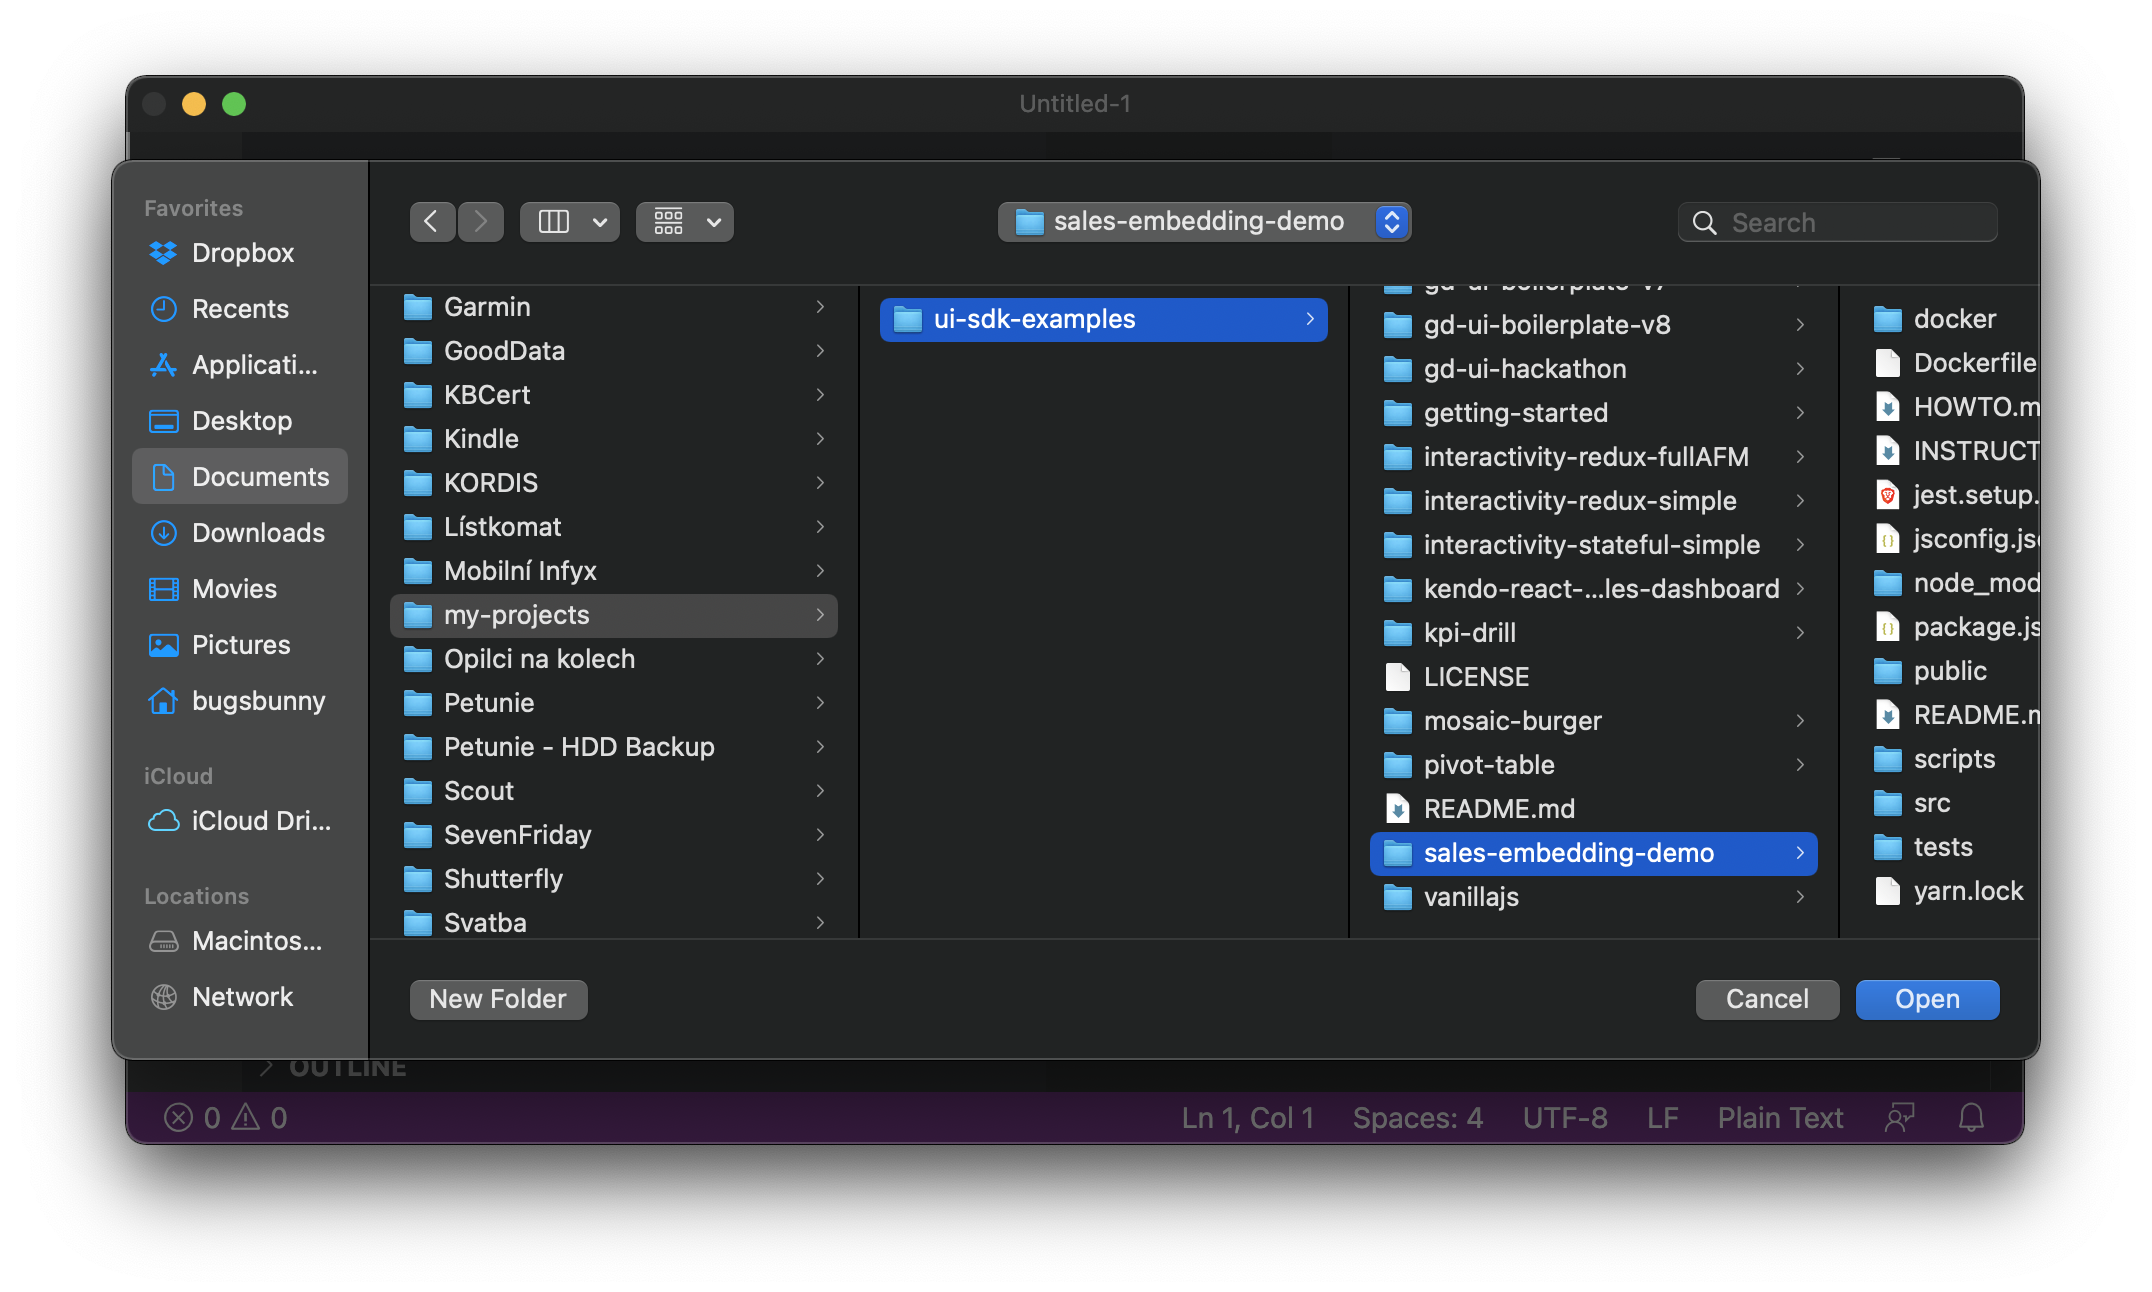
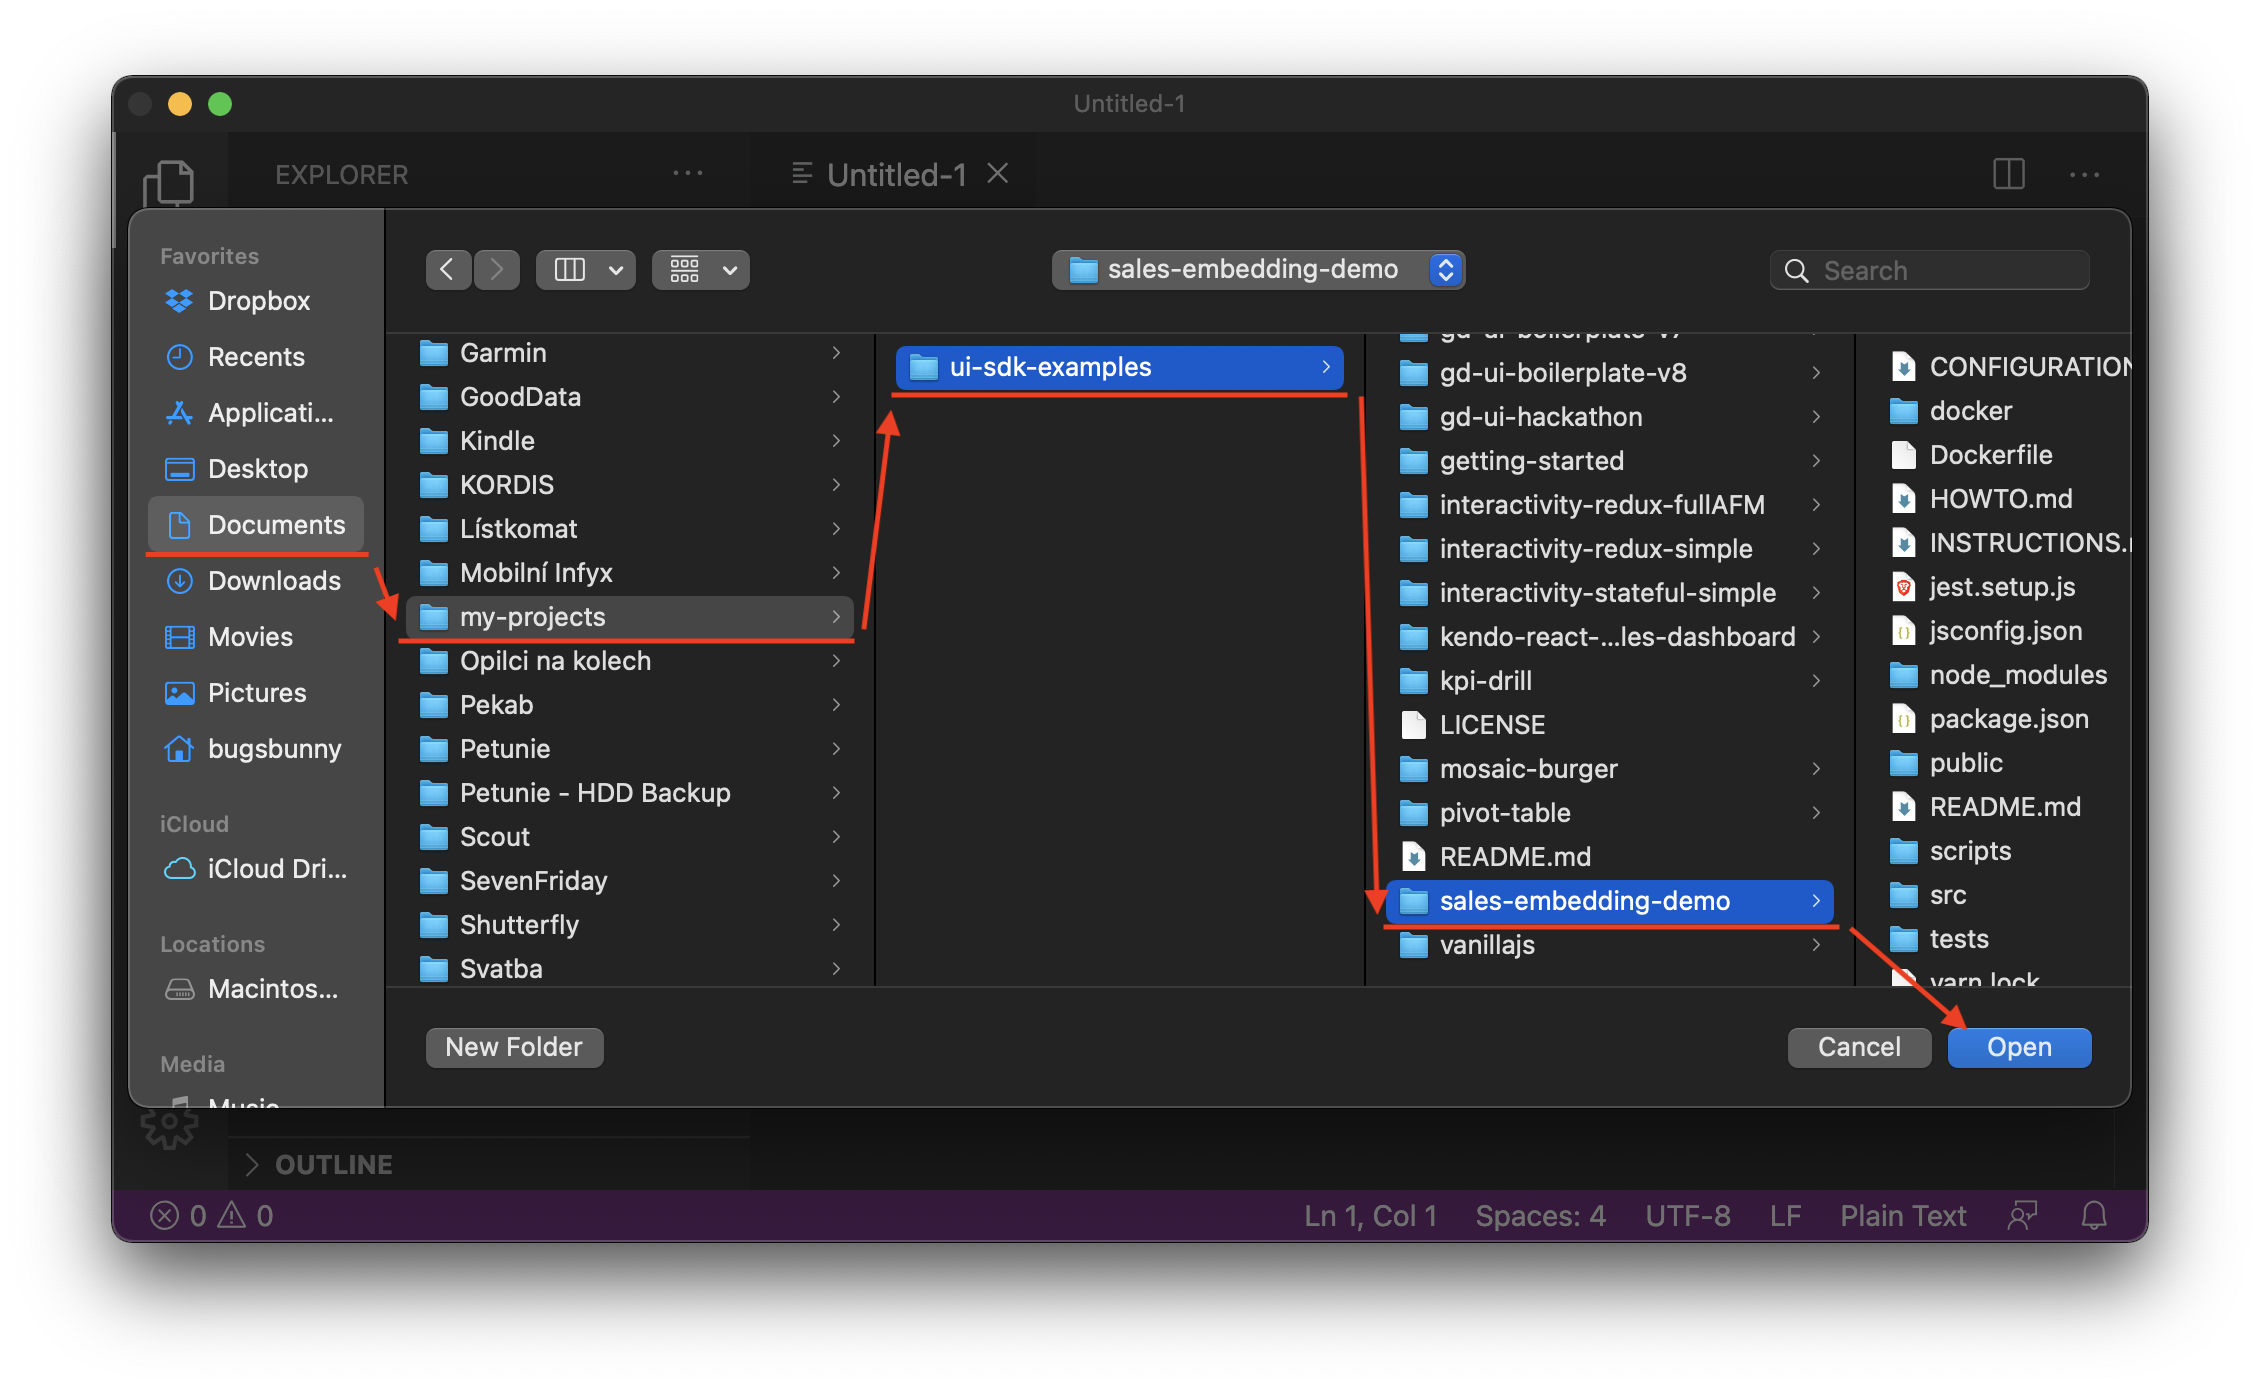
sales-embedding-demo - Feedback from 1st training

diff --git a/sales-embedding-demo/src/constants.js b/sales-embedding-demo/src/constants.js
@@ -6,7 +6,7 @@ export const appName = "sales-embedding-demo";
 // The URL of analytical GoodData backend with workspaces, insights, metrics, attributes, datasets, and users
 // that will be available to the application.
 
-// EXAMPLE: "https://leilani.internal.gooddata.com/"
+// EXAMPLE: "https://leilani.internal.gooddata.com"
 export const backend = "https://e2e-demo28.na.gooddata.com";
 
 // The ID of workspace that is selected by default in the optional workspace picker component (located in the web

diff --git a/sales-embedding-demo/CONFIGURATION.md b/sales-embedding-demo/CONFIGURATION.md
@@ -2,7 +2,7 @@
 
 The purpose of running this app on your localhost is that you can alter it to your needs any time you wish. Some places in the code have been designed to make it as easy as possible.
 
-> Please download [Visual Studio Code](https://code.visualstudio.com/) for easy files editing.
+> Please download and install [Visual Studio Code](https://code.visualstudio.com/) for easy files editing before proceeding further.
 
 (Jump back to [INSTRUCTIONS](INSTRUCTIONS.md) or [README](README.md).)
 
@@ -18,10 +18,11 @@ The purpose of running this app on your localhost is that you can alter it to yo
 
 ## Opening sales-embedding-demo in Visual Studio Code
 
-* Open VSCode (if you don't have VSCode, get it at https://code.visualstudio.com/)
-* At the top of your screen, click View --> Explorer
+* Open VSCode
+  * If you don't have VSCode installed, go to https://code.visualstudio.com/, download it and install it
+* While in VSCode, at the top of your screen, click View --> Explorer
 * Click `Open Folder` and select `sales-embedding-demo` folder to be found in `~/Documents/my-projects/ui-sdk-examples/`
-* You can now open files by clicking Go --> Go to File…
+  * Hint: `~` means "home directory", i.e. `~/Documents/…` is the same as `/Users/<your-username>/Documents/…`
 
 <img src="public/configuration/01-vscode-01.png" width=800>
 <img src="public/configuration/01-vscode-02.png" width=800>
@@ -32,20 +33,32 @@ The purpose of running this app on your localhost is that you can alter it to yo
 
 ### Change the Domain and Workspace
 
-* Kill the app (hit `CTRL + C` in the Terminal)
-* [Open sales-embedding-demo in VSCode](#opening-sales-embedding-demo-in-visual-studio-code)
+* Open sales-embedding-demo in VSCode
+  * If you don't know how, click [here](#opening-sales-embedding-demo-in-visual-studio-code) and then return back here
 * While in VSCode, click Go --> Go to File… and type in `constants` to open `src/constants.js` file
-* Change the value of `backend` to your domain (e.g. https://leilani.na.gooddata.com/)
+* Change the value of `backend` to your domain (e.g. https://leilani.internal.gooddata.com)
+  * This can be whatever domain you want this Sales Embedding Demo to work against
+  * By default it is https://e2e-demo28.na.gooddata.com, but you can change it to anything
+  * You most likely want to change it to https://yourname.internal.gooddata.com
 * Change the value of `workspace` to the workspace you'll be working with
-* Save the changes in `src/constants.js` file
-* Restart the app (run `yarn start` again in the Terminal)
-* You'll now need to `Log out` from the application, and then `Log in` again
+  * This can be whatever workspace you want this Sales Embedding Demo to work against
+  * When you log into platform using the domain URL, the workspace id is part of the URL, check the screenshots below
+  * E.g. if you changed your domain to https://leilani.internal.gooddata.com/, when you log in to GoodData platform and navigate to Dashboards, you are redirected to https://leilani.internal.gooddata.com/dashboards/#/project/no6focgukfj3ohfds9dexvkqazugwo, then you want to change worksace to `no6focgukfj3ohfds9dexvkqazugwo`
+* Save the changes in `src/constants.js` file (`CMD + S`)
+* Restart the app by running `yarn start` again in the Terminal
+  * If your app is still running, kill it first with `CTRL + C`, then restart with `yarn start`
+* You'll need to `Log out` from the application, and then `Log in` again for changes to take effect
+  * When you're loggin in, you now need to use the same credentials that you would when logging to your domain and workspace on GoodData platform
+
+<img src="public/configuration/01-vscode-05.png" width=800>
+<img src="public/configuration/01-vscode-06.png" width=800>
 
 ---
 
 ### Change the Name of the Application
 
-* [Open sales-embedding-demo in VSCode](#opening-sales-embedding-demo-in-visual-studio-code)
+* Open sales-embedding-demo in VSCode
+  * If you don't know how, click [here](#opening-sales-embedding-demo-in-visual-studio-code) and then return back here
 * While in VSCode, click Go --> Go to File… and type in `constants` to open `src/constants.js` file
 * Change the value of `appName` to from `sales-embedding-demo` to `ShopBoard Demo`
 * Save the changes in `src/constants.js` file
@@ -56,12 +69,13 @@ The purpose of running this app on your localhost is that you can alter it to yo
 ### Change the URL of the Embedded Dashboard
 
 * In your browser, navigate to the Dashboard that you want to embed
-* Click the three horizontal dots in the top right corner, and select "Embed"
-* After choosing your configuration options (e.g. show/hide Navigation panel), select URL tab and copy the URL (`CMD + C`)
-* [Open sales-embedding-demo in VSCode](#opening-sales-embedding-demo-in-visual-studio-code)
+* Click the three horizontal dots in the top right corner, and select "Embed", check the screenshot below
+* After choosing your configuration options (e.g. show/hide Navigation panel), select the URL tab and click the `Copy URL` button, again check the screenshot below
+* Open sales-embedding-demo in VSCode
+  * If you don't know how, click [here](#opening-sales-embedding-demo-in-visual-studio-code) and then return back here
 * Open `src/routes/Home.js` in VSCode
 * Look for the `iframe` tag
-* Replace the value of `src` attribute with the URL in your clipboard (`CMD + V`)
+* Replace the value of `src` attribute with the URL in your clipboard (`CMD + V` to paste)
 
 <img src="public/configuration/02-embed-dashboard-01.png" width=800>
 <img src="public/configuration/02-embed-dashboard-02.png" width=800>

diff --git a/sales-embedding-demo/INSTRUCTIONS.md b/sales-embedding-demo/INSTRUCTIONS.md
@@ -92,8 +92,11 @@ Once Xcode command line tools are installed, confirm that git is working by runn
 
 First, navigate to the folder where you'd like to have this repository clonned. If the folder does not exist, you can create it first, for example:
 
-1. `mkdir ~/Documents/my-projects` (fyi `mkdir` stands for "make directory")
-1. `cd ~/Documents/my-projects/` (fyi `cd` stands for "change directory")
+1. `mkdir ~/Documents/my-projects`
+  * Hint: `mkdir` stands for "make directory"
+  * Hint: `~` means "home directory", i.e. `~/` is the same as `/Users/<your-username>/`
+1. `cd ~/Documents/my-projects/`
+  * Hint: `cd` stands for "change directory"
 
 <img src="public/instructions/06-mkdir-01.png" width=800>
 
@@ -114,11 +117,13 @@ Once the app is started, your browser will most likely warn you that "Your conne
 <img src="public/instructions/07-start-05-private.png" width=800>
 <img src="public/instructions/07-start-06-advanced.png" width=800>
 <img src="public/instructions/07-start-07-login.png" width=800>
-<img src="public/instructions/07-start-08-login.png" width=800>
+<!-- <img src="public/instructions/07-start-08-login.png" width=800> -->
 
-The app should now be running at https://localhost:3000 and you may proceed to [CONFIGURATION](CONFIGURATION.md). Once you're done working with the, you may want to kill it by hitting `CTRL + C` in Terminal.
+1. The app should now be running at https://localhost:3000, and you should see the log in form.
+1. **At this point, there is no need for you to log in.**
+1. Let's kill the app by hitting `CTRL + C` in Terminal, and proceed to [CONFIGURATION](CONFIGURATION.md).
 
-> Note: Some of the links in the app (e.g. My Work, Settings) are dummy and inactive, only there to make an impression of a fully working app.
+> Note: Some of the links in the app (e.g. My Work, Settings) are dummy and inactive, only there to make an impression of a real application.
 
 <img src="public/instructions/08-kill-01.png" width=800>
 
